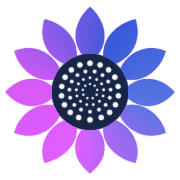
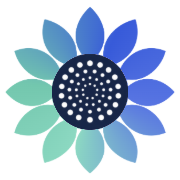
style(brand): replace orchid accent with seafoam

diff --git a/theme/paletteDirections.ts b/theme/paletteDirections.ts
@@ -1,6 +1,8 @@
-/** Color proposals, isolated from the shipping theme until the brand choice is made. */
+import { tokens } from './tokens';
+
+/** The selected direction follows production tokens; other proposals remain illustrative. */
 export const paletteDirections = [
-  { id: 'cobalt', name: 'Cobalt & orchidée', letter: 'A', description: 'Le choix retenu : cobalt, bleu nuit et violet rosé.', primary: '#3659D9', deep: '#17264B', accent: '#E15EFF', paper: '#F5F6FA', muted: '#59647B', line: '#DCE1ED', light: '#E9EDFC' },
+  { id: 'cobalt', name: 'Cobalt & vert d’eau', letter: 'A', description: 'Le choix retenu : cobalt, bleu nuit et vert d’eau.', primary: tokens.color.brand, deep: tokens.color.brandDeep, accent: tokens.color.accent, paper: tokens.color.paper, muted: tokens.color.muted, line: tokens.color.line, light: '#E9EDFC' },
   { id: 'glacier', name: 'Encre & glacier', letter: 'B', description: 'Une base bleu nuit et un cyan lumineux, plus technique.', primary: '#076C89', deep: '#142B3B', accent: '#5BE2ED', paper: '#F3F7F8', muted: '#526775', line: '#D5E2E7', light: '#DDF2F6' },
   { id: 'corail', name: 'Prune & corail', letter: 'C', description: 'Une prune profonde et un corail franc, plus créatif.', primary: '#6A4092', deep: '#30203F', accent: '#FFAC8E', paper: '#F8F5F7', muted: '#6D5F75', line: '#E6DDE8', light: '#EFE5F6' },
 ] as const;

diff --git a/components/ui/TournesolSymbol.tsx b/components/ui/TournesolSymbol.tsx
@@ -25,10 +25,10 @@ export function TournesolSymbol({ size = 52, animated = true }: { size?: number 
     '&[data-motion="true"] .tournesol-petal-gradient': { animationPlayState: 'running' },
     '@media (prefers-reduced-motion: reduce)': { '& .tournesol-petal-gradient': { animation: 'none' } },
   }}>
-    <Image src={sunflower} alt="" width={400} height={400} sizes="(max-width: 899px) 220px, 400px" style={{ display: 'block', width: '100%', height: '100%' }} />
+    <Image src={sunflower} alt="" width={400} height={400} sizes="(max-width: 899px) 220px, 400px" style={{ display: 'block', width: '100%', height: '100%', clipPath: 'ellipse(21.3% 21.2% at 50% 51.04%)' }} />
     <Box data-petal-mask sx={{ position: 'absolute', inset: 0, pointerEvents: 'none',
       // Intersect the original alpha with the outside of its circular center.
-      // The navy center and white seeds remain the unchanged image underneath.
+      // Only the original center is drawn underneath, preventing old petal colors at alpha edges.
       maskImage: `url("${sunflower.src}"), radial-gradient(ellipse 21.3% 21.2% at 50% 51.04%, transparent 99.5%, #000 100%)`,
       maskSize: '100% 100%', maskRepeat: 'no-repeat', maskComposite: 'intersect',
       WebkitMaskComposite: 'source-in',

diff --git a/theme/tokens.ts b/theme/tokens.ts
@@ -1,10 +1,10 @@
 export const tokens = {
   color: {
     paper: '#F5F6FA', white: '#FFFFFF', brand: '#3659D9', brandDeep: '#17264B',
-    brandLight: '#5774E2', accent: '#E15EFF', accentLight: '#F6DCFF',
+    brandLight: '#5774E2', accent: '#8DD9C2', accentLight: '#DFF3EC',
     ink: '#17264B', muted: '#59647B', line: '#DCE1ED', field: '#EBEEF5',
     error: '#A3382F', warning: '#6A4D1C', phone: '#222630', instagram: '#121212',
-    accentHover: '#D659F7', inverseMuted: '#CCD5F0', nativeLine: '#E3E3E3', nativeMuted: '#575757',
+    accentHover: '#72C7AE', inverseMuted: '#CCD5F0', nativeLine: '#E3E3E3', nativeMuted: '#575757',
   },
   font: {
     display: '"futura-pt", "Futura-Medium", Futura, "Helvetica Neue", sans-serif',

diff --git a/DESIGN.md b/DESIGN.md
@@ -5,9 +5,9 @@ colors:
   brand: "#3659D9"
   brand-deep: "#17264B"
   brand-light: "#5774E2"
-  accent: "#E15EFF"
-  accent-light: "#F6DCFF"
-  accent-hover: "#D659F7"
+  accent: "#8DD9C2"
+  accent-light: "#DFF3EC"
+  accent-hover: "#72C7AE"
   paper: "#F5F6FA"
   white: "#FFFFFF"
   ink: "#17264B"
@@ -156,7 +156,7 @@ components:
 
 **Creative North Star: "Lumière Tournesol"**
 
-Tournesol possède son propre système de design public. Le cobalt, le bleu nuit, le rose-violet et le papier froid soutiennent une présentation calme, ample et visuelle. Les photographies botaniques et le symbole floral aux pétales traversés par un dégradé cobalt et rose-violet donnent une présence reconnaissable au produit ; les grandes Futura en casse naturelle lui donnent sa voix.
+Tournesol possède son propre système de design public. Le cobalt, le bleu nuit, le vert d’eau et le papier froid soutiennent une présentation calme, ample et visuelle. Les photographies botaniques et le symbole floral aux pétales traversés par un dégradé cobalt et vert d’eau donnent une présence reconnaissable au produit ; les grandes Futura en casse naturelle lui donnent sa voix.
 
 La matière reste discrète : les panneaux émergent du fond commun par une lumière en haut et à gauche et une ombre souple en bas et à droite. Les commandes restent plates, les sélections sont lisibles et les dialogues utilisent un verre frosté. La préparation des contenus et la modération ont la même importance visuelle. Le mouvement accompagne la compréhension ; le contenu reste complet sans lui.
 
@@ -165,30 +165,30 @@ La matière reste discrète : les panneaux émergent du fond commun par une lumi
 - Un système Tournesol indépendant, sans dépendance au code du dépôt admin.
 - Fond et faces des panneaux de même couleur, relief externe doux.
 - Futura pour les titres et le corps ; repli de graisse documenté, sans faux gras.
-- Commandes plates, sélections rose-violet et focus visible.
+- Commandes plates, sélections vert d’eau et focus visible.
 - Dégradé tournant dans les pétales fixes, centre bleu nuit immobile et variante statique.
 - Compositions de produit MUI, photographies et données explicitement démonstratives.
 - Même ThemeProvider dans Next.js et Storybook ; contenu accessible sans animation.
 
-Le système public reste indépendant depuis la séparation approuvée le 18 octobre 2026. Le 19 octobre, le choix A Cobalt et le retrait de son jaune conduisent d’abord à une palette cobalt et cyan commune à l’admin. La révision approuvée ensuite remplace le cyan par le rose-violet et anime le dégradé des pétales ; la composition A et la typographie propres à chaque interface sont conservées. Les sources de vérité sont `theme/tokens.ts`, `theme/theme.ts`, `theme/ThemeProvider.tsx`, `app/globals.css`, les composants et leurs stories. Le domaine public est `https://tournesol.vlnt.st` ; les dépendances sont gérées avec npm. `PRODUCT.md` porte la vérité produit et `.impeccable/surfaces/app-page-tsx.md` la composition de la page. Les fichiers de `.impeccable/references/` sont des preuves historiques, pas l’autorité visuelle actuelle.
+Le système public reste indépendant depuis la séparation approuvée le 18 octobre 2026. Le 19 octobre, le choix A Cobalt et le retrait de son jaune conduisent d’abord à une palette cobalt et cyan commune à l’admin. La révision approuvée ensuite remplace le cyan par le vert d’eau et anime le dégradé des pétales ; la composition A et la typographie propres à chaque interface sont conservées. Les sources de vérité sont `theme/tokens.ts`, `theme/theme.ts`, `theme/ThemeProvider.tsx`, `app/globals.css`, les composants et leurs stories. Le domaine public est `https://tournesol.vlnt.st` ; les dépendances sont gérées avec npm. `PRODUCT.md` porte la vérité produit et `.impeccable/surfaces/app-page-tsx.md` la composition de la page. Les fichiers de `.impeccable/references/` sont des preuves historiques, pas l’autorité visuelle actuelle.
 
 La [revue du 19 octobre](.impeccable/review/oct19/finish-review.md) conclut `ship` sur la précédente démonstration et la palette cyan des deux interfaces. Ses vingt captures publiques et admin, les états du parcours et l’image Open Graph restent des preuves historiques. La [revue indépendante de la révision rose-violet](.impeccable/review/oct19-orchid/finish-review.md), des pétales animés et du défilement temporairement bloqué conclut également `ship` ; les nouvelles captures sont dans `.impeccable/review/oct19-orchid/`. Les tests ciblés passent sur le public (23 réussis, 3 ignorés dans Brave) et l’admin (2 réussis). La revue s’appuie sur le code, les captures et les mesures, sans inspection vidéo ni requalification des preuves historiques.
 
 ## Colors
 
-La palette associe un cobalt franc, un bleu nuit et un rose-violet lumineux à des neutres froids. Les valeurs normatives sont dans le frontmatter ; les noms ci-dessous décrivent leur usage. Les slugs documentaires `brand-deep`, `brand-light`, `accent-light`, `accent-hover` et `inverse-muted` correspondent aux tokens camelCase du thème.
+La palette associe un cobalt franc, un bleu nuit et un vert d’eau lumineux à des neutres froids. Les valeurs normatives sont dans le frontmatter ; les noms ci-dessous décrivent leur usage. Les slugs documentaires `brand-deep`, `brand-light`, `accent-light`, `accent-hover` et `inverse-muted` correspondent aux tokens camelCase du thème.
 
 ### Primary
 
 - **Cobalt Tournesol** (`brand`) : action principale, liens, progression active et focus global.
-- **Bleu nuit** (`brand-deep`) : grands titres, surface encre, texte sur rose-violet, centre fixe du symbole et survol du bouton principal.
+- **Bleu nuit** (`brand-deep`) : grands titres, surface encre, texte sur vert d’eau, centre fixe du symbole et survol du bouton principal.
 - **Cobalt clair** (`brand-light`) : contour de focus des boutons et barre de défilement.
 
 ### Secondary
 
-- **Rose-violet Tournesol** (`accent`) : bouton secondaire contenu, onglet et jour sélectionnés, sélection de texte et couleur du dégradé des pétales.
-- **Rose-violet clair** (`accent-light`) : teinte de fond disponible dans les fondations du système ; elle n’établit pas une nouvelle famille de surfaces dans la page.
-- **Rose-violet au survol** (`accent-hover`) : réponse du bouton contenu rose-violet et couleur du dégradé des pétales.
+- **Vert d’eau Tournesol** (`accent`) : bouton secondaire contenu, onglet et jour sélectionnés, sélection de texte et couleur du dégradé des pétales.
+- **Vert d’eau clair** (`accent-light`) : teinte de fond disponible dans les fondations du système ; elle n’établit pas une nouvelle famille de surfaces dans la page.
+- **Vert d’eau au survol** (`accent-hover`) : réponse du bouton contenu vert d’eau et couleur du dégradé des pétales.
 
 ### Neutral
 
@@ -204,7 +204,7 @@ Les couleurs sémantiques `error` et `warning` viennent du thème MUI. Elles ne 
 
 **The Shared Face Rule.** Le fond de page et les faces des panneaux relevés utilisent `paper`. Leur séparation vient du relief externe, pas d’un dégradé appliqué à la face.
 
-Les dégradés restent des traitements de marque autorisés : halos rose-violet et cobalt derrière la scène produit et le symbole du chapitre Studio, dégradé conique dans les seuls pétales. Les halos ne remplissent ni les panneaux, ni les textes, ni les actions ; les faces et commandes conservent leurs aplats. Les rampes OKLCH du sidecar sont synthétisées pour l’aperçu documentaire ; elles ne créent pas de nouvelles couleurs de production.
+Les dégradés restent des traitements de marque autorisés : halos vert d’eau et cobalt derrière la scène produit et le symbole du chapitre Studio, dégradé conique dans les seuls pétales. Les halos ne remplissent ni les panneaux, ni les textes, ni les actions ; les faces et commandes conservent leurs aplats. Les rampes OKLCH du sidecar sont synthétisées pour l’aperçu documentaire ; elles ne créent pas de nouvelles couleurs de production.
 
 ## Typography
 
@@ -273,7 +273,7 @@ Tous les composants visuels sont des dérivés ou des compositions de MUI. `them
 
 ### Buttons
 
-`ActionButton` est le dérivé unique de MUI Button. La variante par défaut est `contained`, avec élévation désactivée. Le bouton cobalt porte du texte blanc ; le bouton secondaire rose-violet porte du texte bleu nuit. `outlined` et `text` gardent le cobalt principal. La taille, les états `loading` et `disabled` et la sémantique de lien via `href` restent ceux de MUI. Les stories couvrent ces six états ou variantes.
+`ActionButton` est le dérivé unique de MUI Button. La variante par défaut est `contained`, avec élévation désactivée. Le bouton cobalt porte du texte blanc ; le bouton secondaire vert d’eau porte du texte bleu nuit. `outlined` et `text` gardent le cobalt principal. La taille, les états `loading` et `disabled` et la sémantique de lien via `href` restent ceux de MUI. Les stories couvrent ces six états ou variantes.
 
 Le focus du bouton utilise un contour cobalt clair de (3px), décalé de (4px). Les autres éléments focalisables reçoivent le cobalt principal. Les boutons restent plats au survol ; aucune translation de levée n’est ajoutée. Les variantes de taille et les usages locaux peuvent adapter le remplissage, comme les actions textuelles de la démo de modération.
 
@@ -289,7 +289,7 @@ Les champs sont des MUI TextField/OutlinedInput, présentés dans la story `Cham
 
 `SiteHeader` associe le symbole et la signature « by volante », deux liens d’ancrage et l’accès à l’application. Sur mobile, IconButton ouvre un Menu MUI avec les mêmes destinations. Il n’y a ni navigation latérale ni suivi automatique d’une rubrique active. Les liens ont un soulignement au survol ; le lien d’évitement apparaît au focus.
 
-Les onglets sont des MUI Tabs/Tab : groupe d’au moins (48px), onglets d’au moins (44px), indicateur linéaire supprimé, sélection en aplat rose-violet et texte bleu nuit. Leur focus est un contour cobalt de (3px), intégré par un décalage de (-3px). Les labels, identifiants et panneaux associés portent les relations ARIA ; le clavier suit MUI. Aucune famille de chips n’est utilisée par le site livré.
+Les onglets sont des MUI Tabs/Tab : groupe d’au moins (48px), onglets d’au moins (44px), indicateur linéaire supprimé, sélection en aplat vert d’eau et texte bleu nuit. Leur focus est un contour cobalt de (3px), intégré par un décalage de (-3px). Les labels, identifiants et panneaux associés portent les relations ARIA ; le clavier suit MUI. Aucune famille de chips n’est utilisée par le site livré.
 
 ### Frosted dialog
 
@@ -311,7 +311,7 @@ Le fil commence avec huit photographies existantes distinctes de la nouvelle ima
 
 ### Symbole Tournesol
 
-`TournesolSymbol` conserve la silhouette et le centre du PNG généré `public/brand/tournesol-symbol.png`, ainsi que sa transparence et son prompt exact dans `public/brand/tournesol-symbol.prompt.txt`. Son alpha est croisé avec un masque excluant le disque central : seul le champ de couleur conique tourne à l’intérieur des pétales fixes. Le bleu nuit du centre et ses graines blanches restent immobiles. Le dégradé traverse cobalt, cobalt clair, rose-violet et rose-violet au survol sur un tour linéaire de (18s).
+`TournesolSymbol` conserve la silhouette et le centre du PNG généré `public/brand/tournesol-symbol.png`, ainsi que sa transparence et son prompt exact dans `public/brand/tournesol-symbol.prompt.txt`. Son alpha est croisé avec un masque excluant le disque central : seul le champ de couleur conique tourne à l’intérieur des pétales fixes. Le bleu nuit du centre et ses graines blanches restent immobiles. Le dégradé traverse cobalt, cobalt clair, vert d’eau et vert d’eau au survol sur un tour linéaire de (18s).
 
 **The Fixed Flower Rule.** Animer la couleur des pétales, jamais la silhouette ni le centre du tournesol. Suspendre la rotation hors écran ou lorsque l’onglet est masqué ; conserver un dégradé statique en mouvement réduit ou avec `animated={false}`.
 
@@ -326,7 +326,7 @@ La marque du header et le symbole du chapitre Studio réutilisent ce composant. 
 - Do garder les faces relevées de la couleur du fond, avec leur lumière supérieure et gauche, et les commandes plates.
 - Do réserver les arrondis des dialogues et du téléphone à ces matières ; employer le rayon de contrôle pour les actions et sélections.
 - Do rendre les états de démonstration compréhensibles au clavier et sans animation, avec leurs libellés explicites.
-- Do conserver les pétales fixes au dégradé cobalt et rose-violet, le centre bleu nuit immobile, la signature « by volante » et la provenance des images publiées.
+- Do conserver les pétales fixes au dégradé cobalt et vert d’eau, le centre bleu nuit immobile, la signature « by volante » et la provenance des images publiées.
 - Do laisser interrompre le parcours desktop et restaurer le défilement ; garder le parcours mobile volontaire et sans blocage.
 
 ### Don't:
@@ -338,11 +338,21 @@ La marque du header et le symbole du chapitre Studio réutilisent ce composant. 
 - Don’t transformer les données de démonstration, les interactions locales ou une capture fixe en preuve d’accès Instagram réel, d’approbation Meta ou de lecture vidéo validée.
 
 
-### Accent renforcé — 19 octobre 2026
+### Étape historique : accent renforcé — 19 octobre 2026
 
-Le dernier retour utilisateur demande un violet rosé plus vif. L’accent courant
-est l’orchidée électrique #E15EFF, accompagné du fond #F6DCFF et du survol
+Le dernier retour utilisateur demande un violet rosé plus vif. L’accent de cette étape
+était l’orchidée électrique #E15EFF, accompagné du fond #F6DCFF et du survol
 #D659F7. Les contrastes avec le texte bleu nuit sont respectivement 5,12:1,
 11,73:1 et 4,69:1. Les revues cyan et orchidée pastel citées plus haut restent
 historiques. La revue de finition de cette retouche est conservée dans le dépôt
 public sous `.impeccable/review/oct19-electric/finish-review.md` (`ship`).
+
+### Vert d’eau — 19 octobre 2026
+
+À la demande de l’utilisateur, l’accent devient #8DD9C2, avec #DFF3EC
+pour le clair et #72C7AE au survol. Les contrastes avec l’encre #17264B
+sont respectivement 9,07:1, 12,84:1 et 7,42:1. Le cobalt, la typographie,
+les reliefs et les comportements restent identiques. Le raster source fournit
+le contour et le centre du symbole ; ses anciens pétales ne sont plus dessinés
+sous le masque, ce qui évite un liseré rose sur les bords transparents.
+Les preuves des étapes précédentes restent historiques.

diff --git a/.impeccable/surfaces/app-page-tsx.md b/.impeccable/surfaces/app-page-tsx.md
@@ -15,10 +15,10 @@ comprend qui l’exploite et peut rejoindre l’application. Site indépendant d
 THESIS: Un même contenu traverse le brouillon, le calendrier et la projection du
 profil ; l’expérience montre le produit plutôt qu’une grille de promesses.
 
-OWN-WORLD: Papier froid, cobalt, bleu nuit et rose-violet ; titres Futura Medium demandés
+OWN-WORLD: Papier froid, cobalt, bleu nuit et vert d’eau ; titres Futura Medium demandés
 avec repli 400 accepté, surfaces mates relevées en haut et à gauche, commandes
-plates, téléphone lisible. La palette A Cobalt avec l’accent rose-violet remplace
-les couleurs de la maquette initiale. Un dégradé cobalt et rose-violet tourne
+plates, téléphone lisible. La palette A Cobalt avec l’accent vert d’eau remplace
+les couleurs de la maquette initiale. Un dégradé cobalt et vert d’eau tourne
 dans les pétales fixes du symbole ; son centre bleu nuit reste immobile.
 
 STORY: Préparer, choisir un moment, visualiser son fil ; puis examiner les échanges,
@@ -97,8 +97,8 @@ Futura Medium pour les titres. Le kit Adobe contient seulement 400/700 ; son
 utilisation en repli est explicitement acceptée (« fais avec ce que tu as »).
 La maquette A reste la référence de composition. Le 19 octobre, l’utilisateur
 choisit A Cobalt puis demande de remplacer le jaune par un autre accent. La
-révision suivante remplace le cyan par le rose-violet #E15EFF, accompagné du
-clair #F6DCFF et du survol #D659F7 ; le cobalt #3659D9, le bleu nuit #17264B
+révision suivante remplace le cyan par le vert d’eau #8DD9C2, accompagné du
+clair #DFF3EC et du survol #72C7AE ; le cobalt #3659D9, le bleu nuit #17264B
 et le papier #F5F6FA restent inchangés. Les tokens de thème sont l’autorité
 courante. Le PNG original transparent et son prompt exact restent dans
 `public/brand/` ; `TournesolSymbol` définit le traitement animé de ses pétales.
@@ -127,3 +127,13 @@ est l’orchidée électrique #E15EFF, accompagné du fond #F6DCFF et du survol
 11,73:1 et 4,69:1. Les revues cyan et orchidée pastel citées plus haut restent
 historiques. La revue de finition de cette retouche est conservée dans le dépôt
 public sous `.impeccable/review/oct19-electric/finish-review.md` (`ship`).
+
+### Vert d’eau — 19 octobre 2026
+
+À la demande de l’utilisateur, l’accent devient #8DD9C2, avec #DFF3EC
+pour le clair et #72C7AE au survol. Les contrastes avec l’encre #17264B
+sont respectivement 9,07:1, 12,84:1 et 7,42:1. Le cobalt, la typographie,
+les reliefs et les comportements restent identiques. Le raster source fournit
+le contour et le centre du symbole ; ses anciens pétales ne sont plus dessinés
+sous le masque, ce qui évite un liseré rose sur les bords transparents.
+Les preuves des étapes précédentes restent historiques.

diff --git a/docs/brand-assets.md b/docs/brand-assets.md
@@ -1,21 +1,18 @@
-# Identité cobalt et orchidée
+# Identité cobalt et vert d’eau
 
-La direction A a été retenue le 19 octobre 2026, avec remplacement explicite du
-jaune par une autre couleur. La déclinaison utilise le cobalt `#3659D9`, le bleu
-nuit `#17264B` et, après le retour utilisateur, le violet rosé `#E15EFF` dans le
-site et l’admin. Le fond d’accent est `#F6DCFF`, son survol `#D659F7`.
+La palette commune au site et à l’admin associe cobalt `#3659D9`, bleu nuit
+`#17264B` et vert d’eau `#8DD9C2`, avec `#DFF3EC` en clair et `#72C7AE` au survol.
+Le texte bleu nuit présente un contraste de 9,07:1 sur l’accent, 12,84:1 sur
+le clair et 7,42:1 au survol. Cette révision remplace le rose à la demande de l’utilisateur.
 
-L’accent a été renforcé à la demande de l’utilisateur : orchidée électrique,
-plus saturé que le pastel précédent. Texte bleu nuit : contraste de 5,12:1
-sur l’accent, 4,69:1 au survol et 11,73:1 sur le fond clair.
-
-Le symbole existant a été recoloré avec l’outil intégré **image_gen** : pétales
+Le raster source avait été recoloré avec l’outil intégré **image_gen** : pétales
 violet rosé, cœur bleu nuit, silhouette et points blancs conservés, fond transparent.
 Le prompt exact est conservé dans `public/brand/tournesol-symbol.prompt.txt`
 et embarqué dans le PNG. Le même fichier est utilisé par l’admin.
 
 Le composant MUI `TournesolSymbol` utilise l’alpha de ce raster pour la forme
-exacte des pétales. Un masque exclut le cœur ; seul le champ de couleur du
+exacte des pétales. Seul le cœur original est dessiné sous le masque, pour éviter
+un liseré rose sur les bords alpha. Un masque exclut le cœur ; seul le champ de couleur du
 dégradé conique tourne, en 18 secondes. Hors écran et onglet masqué, il se met
 en pause. Avec mouvement réduit et dans l’avatar Instagram, il reste statique.
 La géométrie d’exclusion correspond au cœur du raster de 1254 × 1254 px ; elle

diff --git a/docs/validation.md b/docs/validation.md
@@ -1,5 +1,28 @@
 # Validation du site public — 19 octobre 2026
 
+## Vert d’eau — 19 octobre 2026
+
+- Accent #8DD9C2, clair #DFF3EC et survol #72C7AE dans le site et l’admin.
+  Contrastes avec l’encre bleu nuit : 9,07:1, 12,84:1 et 7,42:1.
+- Les tokens alimentent les composants MUI et la direction A de Storybook.
+  Icônes et Open Graph réexportés depuis les composants, provenance embarquée.
+  Le raster original ne dessine plus ses pétales sous le masque : pas de liseré rose.
+- Lint, génération des types et build Next.js réussis. La copie isolée ne pouvait
+  pas résoudre Next.js hors de sa racine Turbopack ; le build a donc été effectué
+  dans le dépôt installé, avec succès.
+- 38 stories rendues ; dialogue testé au clavier et avec axe. Les quatre tests
+  ciblés desktop/mobile passent : accessibilité, absence de débordement,
+  pétales animés et préférence de mouvement réduit.
+- Relecture visuelle locale de l’image sociale et des icônes, puis des vues admin
+  390/1440 px. Une assertion mobile attend maintenant la mise à jour responsive
+  avant de mesurer la largeur ; le contrôle passe sans changement de géométrie.
+- Une seule passe manuelle du détecteur : deux avis sur le noir d’un masque alpha.
+  Ce noir sert uniquement à l’opacité du masque ; ce n’est pas une couleur visible.
+  La documentation a été mise à jour dans le fil courant, sans revue indépendante.
+  Les contraintes typographiques et matérielles approuvées sont conservées.
+
+Les rapports ci-dessous restent des preuves des versions précédentes.
+
 ## Orchidée électrique — version préparée pour push
 
 - Accent #E15EFF, fond clair #F6DCFF, survol #D659F7, communs au site et à

diff --git a/PRODUCT.md b/PRODUCT.md
@@ -46,10 +46,9 @@ est la marque de l’opérateur WR EURL.
 
 Tournesol, avec la signature « by volante » et le symbole de tournesol transparent.
 Design system indépendant de Studio Volante, demandé le 18 octobre 2026. Le
-19 octobre, l’utilisateur choisit A Cobalt, retire le jaune puis remplace le cyan
-par un rose-violet moderne : cobalt #3659D9, bleu nuit #17264B, rose-violet
-#E15EFF et papier froid #F5F6FA forment l’identité actuelle, appliquée aussi à
-l’admin. Le clair #F6DCFF et le survol #D659F7 accompagnent cet accent. Chaque
+19 octobre, l’utilisateur choisit A Cobalt, retire le jaune, puis retient le vert d’eau après les essais cyan et rose : cobalt #3659D9, bleu nuit #17264B, vert d’eau
+#8DD9C2 et papier froid #F5F6FA forment l’identité actuelle, appliquée aussi à
+l’admin. Le clair #DFF3EC et le survol #72C7AE accompagnent cet accent. Chaque
 interface conserve sa typographie et sa composition approuvées.
 Les dégradés restent autorisés dans les traitements de marque. Celui des pétales
 tourne dans la silhouette originale fixe ; le centre bleu nuit reste immobile.
@@ -100,6 +99,6 @@ directes. Sur ordinateur, le défilement est retenu pendant sa lecture et libér
 Sa lecture sur mobile reste volontaire et sans blocage du défilement, avec un
 état final statique en mouvement réduit.
 
-Le 19 octobre, le dernier ajustement demandé renforce l’orchidée vers #E15EFF
+Le 19 octobre, le dernier ajustement demandé remplace le rose par le vert d’eau #8DD9C2
 dans les deux interfaces ; l’identité et les fonctions restent celles décrites
 ci-dessus. Les icônes et l’image sociale suivent cette palette.

diff --git a/public/brand/README.md b/public/brand/README.md
@@ -5,13 +5,12 @@ génération d’images puis recolorée le 19 octobre 2026. Les prompts successi
 sont dans `tournesol-symbol.prompt.txt` ; le PNG conserve sa provenance.
 
 Le composant `TournesolSymbol` utilise l’alpha du PNG pour masquer le dégradé
-cobalt et orchidée électrique. Seules les couleurs des pétales tournent ; le
+cobalt et vert d’eau. Seules les couleurs des pétales tournent ; le
 cœur bleu nuit et les points blancs restent fixes. Le mouvement réduit et les
 exports utilisent une version statique. Le PNG source reste une matière de
 construction du composant, distincte de l’icône exportée.
 
-La palette courante associe cobalt `#3659D9`, bleu nuit `#17264B`, orchidée
-électrique `#E15EFF` et papier froid `#F5F6FA`. Les tokens du thème en sont la
+La palette courante associe cobalt `#3659D9`, bleu nuit `#17264B`, vert d’eau `#8DD9C2` et papier froid `#F5F6FA`. Les tokens du thème en sont la
 source de vérité.
 
 Dans le site public, `components/ui/BrandLogo.tsx` compose le symbole et le nom
